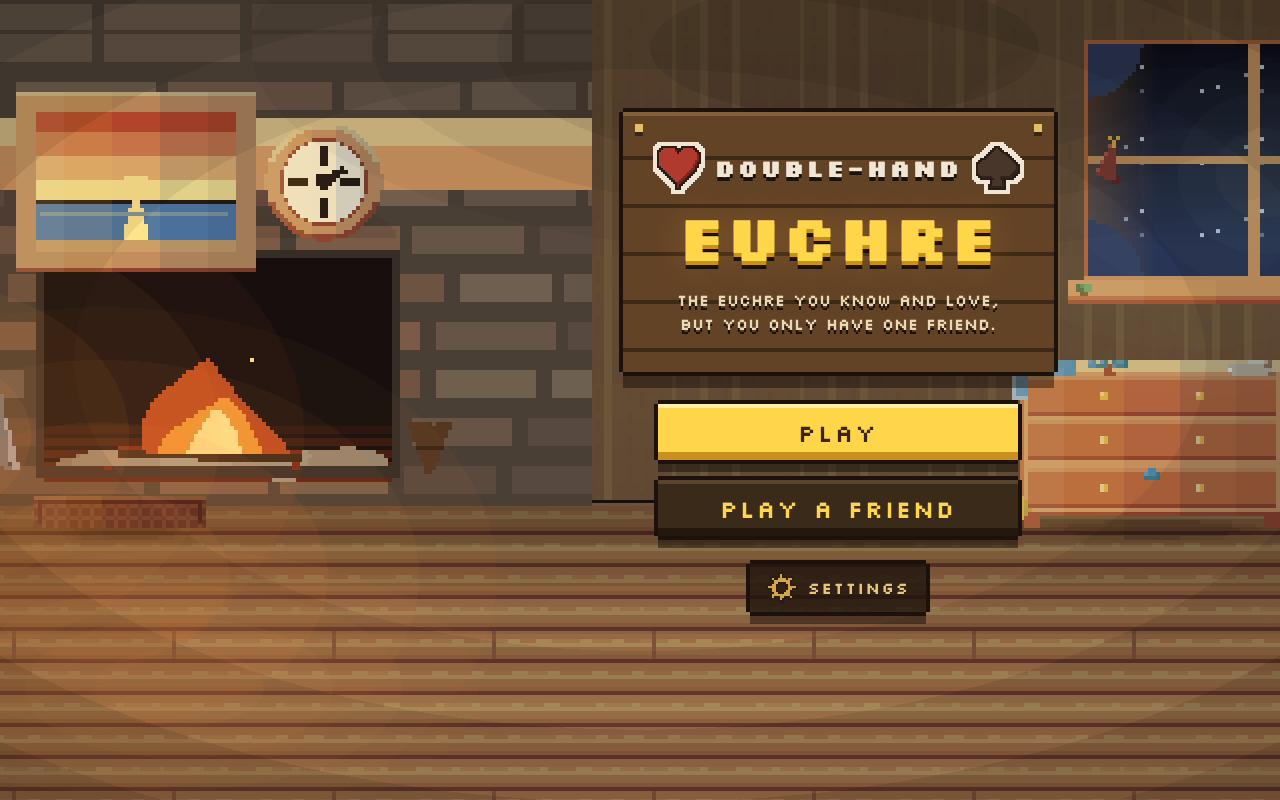
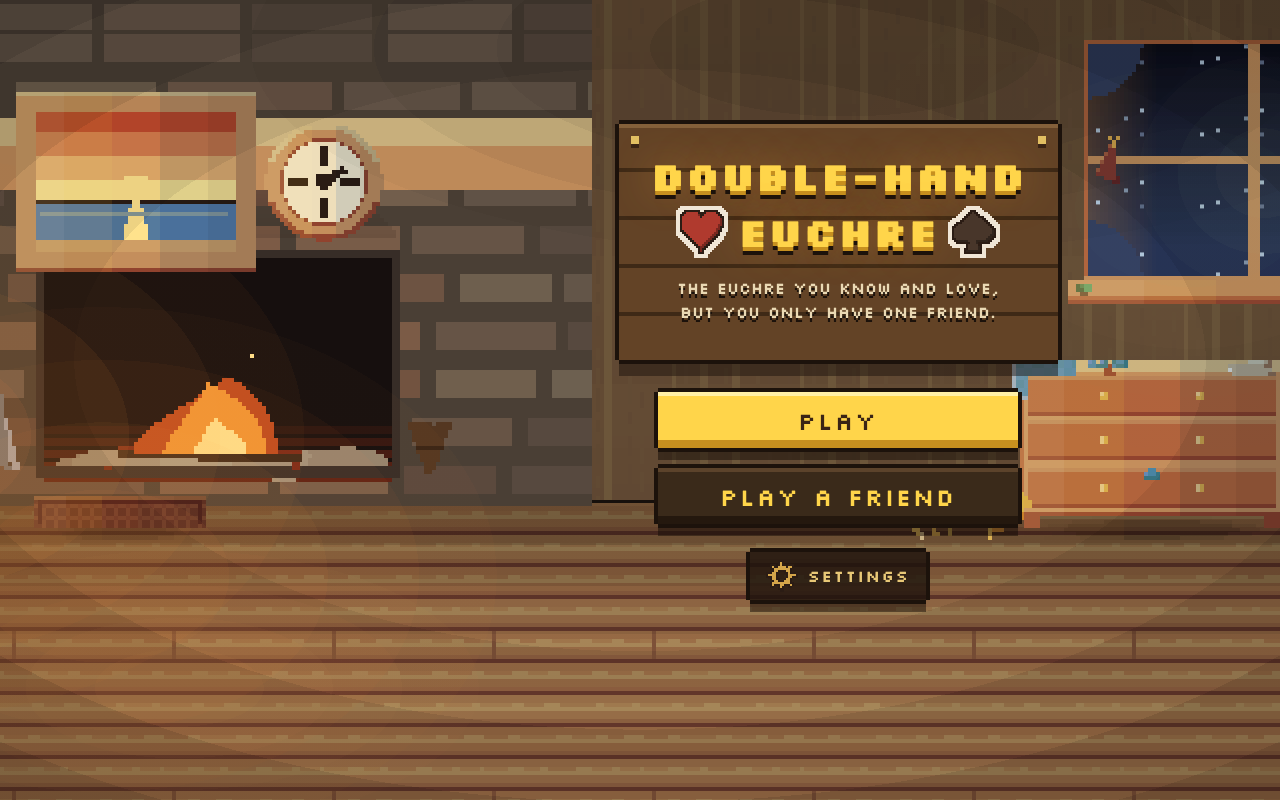
Title sign: set Double-Hand and EUCHRE at one size
Direct owner feedback: "the double hand is barely visible... the font and scale
of the word euchre is far larger". "Double-Hand" was a 16/32px cream kicker
under a 40/80px gold EUCHRE, so the sign read as just EUCHRE.

Both words now share the gilt headline style (gold, stepped extrusion,
firelight flicker) at one size. Sizes are set by the wider line: Silkscreen
bold advances 0.9375em per glyph, so DOUBLE-HAND is 9.375em — measured in the
browser at 300px (32px), 375px (40px) and 525px (56px). Each breakpoint takes
the largest multiple of 8 whose sign still fits its space:
  phones 32px (24px under 360px wide), 900–1439px 40px, 1440px+ 56px.
At 1440px+ two 56px lines take the same height the old 32+80 pair did, so
the painting clearance is unchanged. The heart and spade moved to flank
EUCHRE, the shorter line, to balance the widths. h1 text is unchanged.

Verified with the reviewer's own scripts on this build: every parity item
(including double-Enter/double-Space keeping the save, focus, game_over,
lobby, settings, reduced motion, no foreign requests) and the layout check at
11 sizes x 3 states — no scroll, no clipping, no overlap, all buttons >=44px,
no fractional art scaling. README title screenshot retaken.

Changed region(s): [[0.4688, 0.125, 0.8438, 0.7812], [0.0938, 0.4375, 0.2188, 0.5625]]

diff --git a/src/styles/index.css b/src/styles/index.css
@@ -1323,19 +1323,19 @@ body {
   font-weight: 700;
   line-height: 1;
 }
-.title-sign-kicker {
+/* Silkscreen is drawn on an 8px em: every text size on this screen is a multiple of 8 (and every
+   line-height and letter-spacing a whole pixel), or its strokes land between pixels and blur.
+
+   Both title lines share this one style at one size (direct owner feedback: "Double-Hand" was a
+   16/32px cream kicker under a 40/80px gold EUCHRE, and read as barely there). Sizes are set by
+   the WIDER line: Silkscreen bold advances 0.9375em per glyph, so "DOUBLE-HAND" is 9.375em —
+   300px at 32px, 375px at 40px, 525px at 56px (measured in the browser). Each step is the largest
+   multiple of 8 whose sign still fits its space; see the media queries below. */
+.title-sign-word {
   display: inline-flex;
   align-items: center;
   gap: calc(var(--u) * 3);
-  font-size: calc(16px * var(--px));
-  letter-spacing: calc(1px * var(--px));
-  color: #f0e6d6;
-  text-shadow: 0 var(--u) 0 var(--ink);
-}
-/* Silkscreen is drawn on an 8px em: every text size on this screen is a multiple of 8 (and every
-   line-height and letter-spacing a whole pixel), or its strokes land between pixels and blur. */
-.title-sign-word {
-  font-size: calc(40px * var(--px));
+  font-size: 32px;
   color: #ffd54a;
   /* Gilt letters: a one-pixel darker gold step, then the ink shadow — an extrusion, not a blur.
      The soft glow on top is the fire catching them; it flickers on the fire's own stepped beat. */
@@ -1507,8 +1507,16 @@ body {
 /* Where that wall is only just wider than the sign (px 2, under 1440px) the type steps down one
    Silkscreen grid size, keeping the same ratio. Still multiples of 8. */
 @media (min-width: 900px) and (min-height: 700px) and (max-width: 1439px) {
-  .title-sign-word { font-size: 64px; }
-  .title-sign-kicker { font-size: 24px; }
+  .title-sign-word { font-size: 40px; }
+}
+/* Large (px 2, 1440px+): two 56px lines take exactly the height the old 32 + 80 pair did, so the
+   painting clearance below is unchanged. */
+@media (min-width: 1440px) and (min-height: 700px) {
+  .title-sign-word { font-size: 56px; }
+}
+/* Very narrow phones: 32px "DOUBLE-HAND" (300px) plus the sign's padding overflows under 360px. */
+@media (max-width: 359px) {
+  .title-sign-word { font-size: 24px; }
 }
 /* The farm painting hangs on that same wall, above the sign. Kept wherever both fit: the column
    drops below the painting's bottom edge (54 + 72 = 126au) and centres in the wall left beneath

diff --git a/src/ui/TitleScreen.tsx b/src/ui/TitleScreen.tsx
@@ -56,13 +56,16 @@ export function TitleScreen({
               players, ONE hand each (see Wikipedia's "Euchre variants"). Here each player plays
               both hands of a partnership, so "double-hand". The two pips flanking it are that
               idea drawn: a red hand and a black hand. The tagline is the user's own line. */}
+          {/* Both words at ONE size (direct owner feedback: "the font and scale of the word
+              euchre is far larger" — "Double-Hand" was a small kicker and barely read). The
+              pips moved to flank EUCHRE: it is the shorter line, so they balance the two widths. */}
           <h1 className="title-sign-heading">
-            <span className="title-sign-kicker">
+            <span className="title-sign-word">Double-Hand</span>{' '}
+            <span className="title-sign-word">
               <span className="title-pip title-pip-hearts" aria-hidden="true" />
-              Double-Hand
+              Euchre
               <span className="title-pip title-pip-spades" aria-hidden="true" />
-            </span>{' '}
-            <span className="title-sign-word">Euchre</span>
+            </span>
           </h1>
           <p className="title-sign-tagline">
             The euchre you know and love, but you only have one friend.
